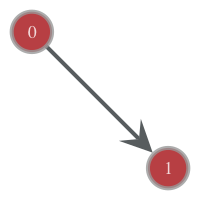
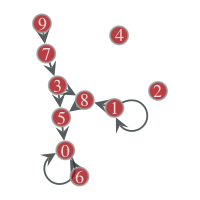
Draw edge

Changed region(s): [[0.03, 0.03, 0.96, 0.96], [0.72, 0.39, 0.84, 0.51], [0.54, 0.12, 0.66, 0.24]]

diff --git a/graph.py b/graph.py
@@ -1,7 +1,13 @@
 from graph_tool.all import *
+from itertools import izip
+from numpy.random import randint
 
 g = Graph()
-v1 = g.add_vertex()
-v2 = g.add_vertex()
-e = g.add_edge(v1, v2)
+
+g.add_vertex(10)
+
+# insert some random links
+for s,t in izip(randint(0, 10, 10), randint(0, 10, 10)):
+        g.add_edge(g.vertex(s), g.vertex(t))
+
 graph_draw(g, vertex_text=g.vertex_index, vertex_font_size=18, output_size=(200, 200), output="two-nodes.png")
